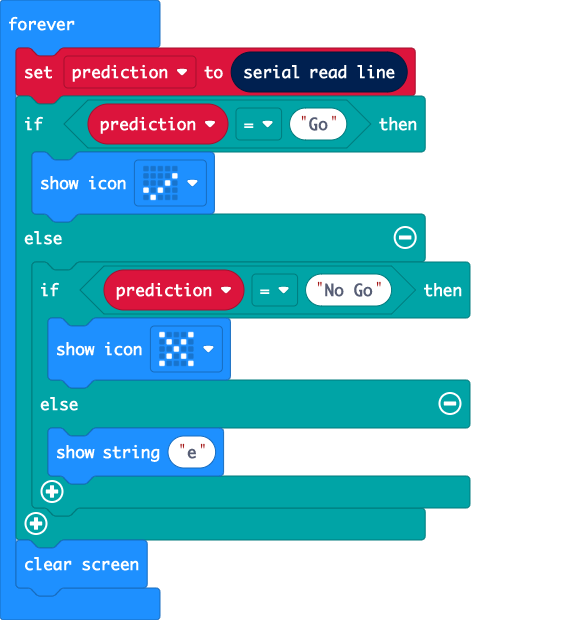
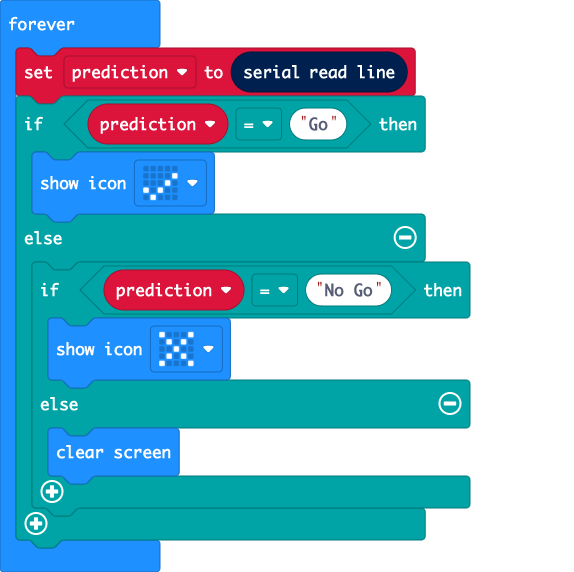
Clear screen if not one of the two options

diff --git a/main.ts b/main.ts
@@ -7,8 +7,7 @@ basic.forever(function () {
         if (prediction == "No Go") {
             basic.showIcon(IconNames.No)
         } else {
-            basic.showString("e")
+            basic.clearScreen()
         }
     }
-    basic.clearScreen()
 })
